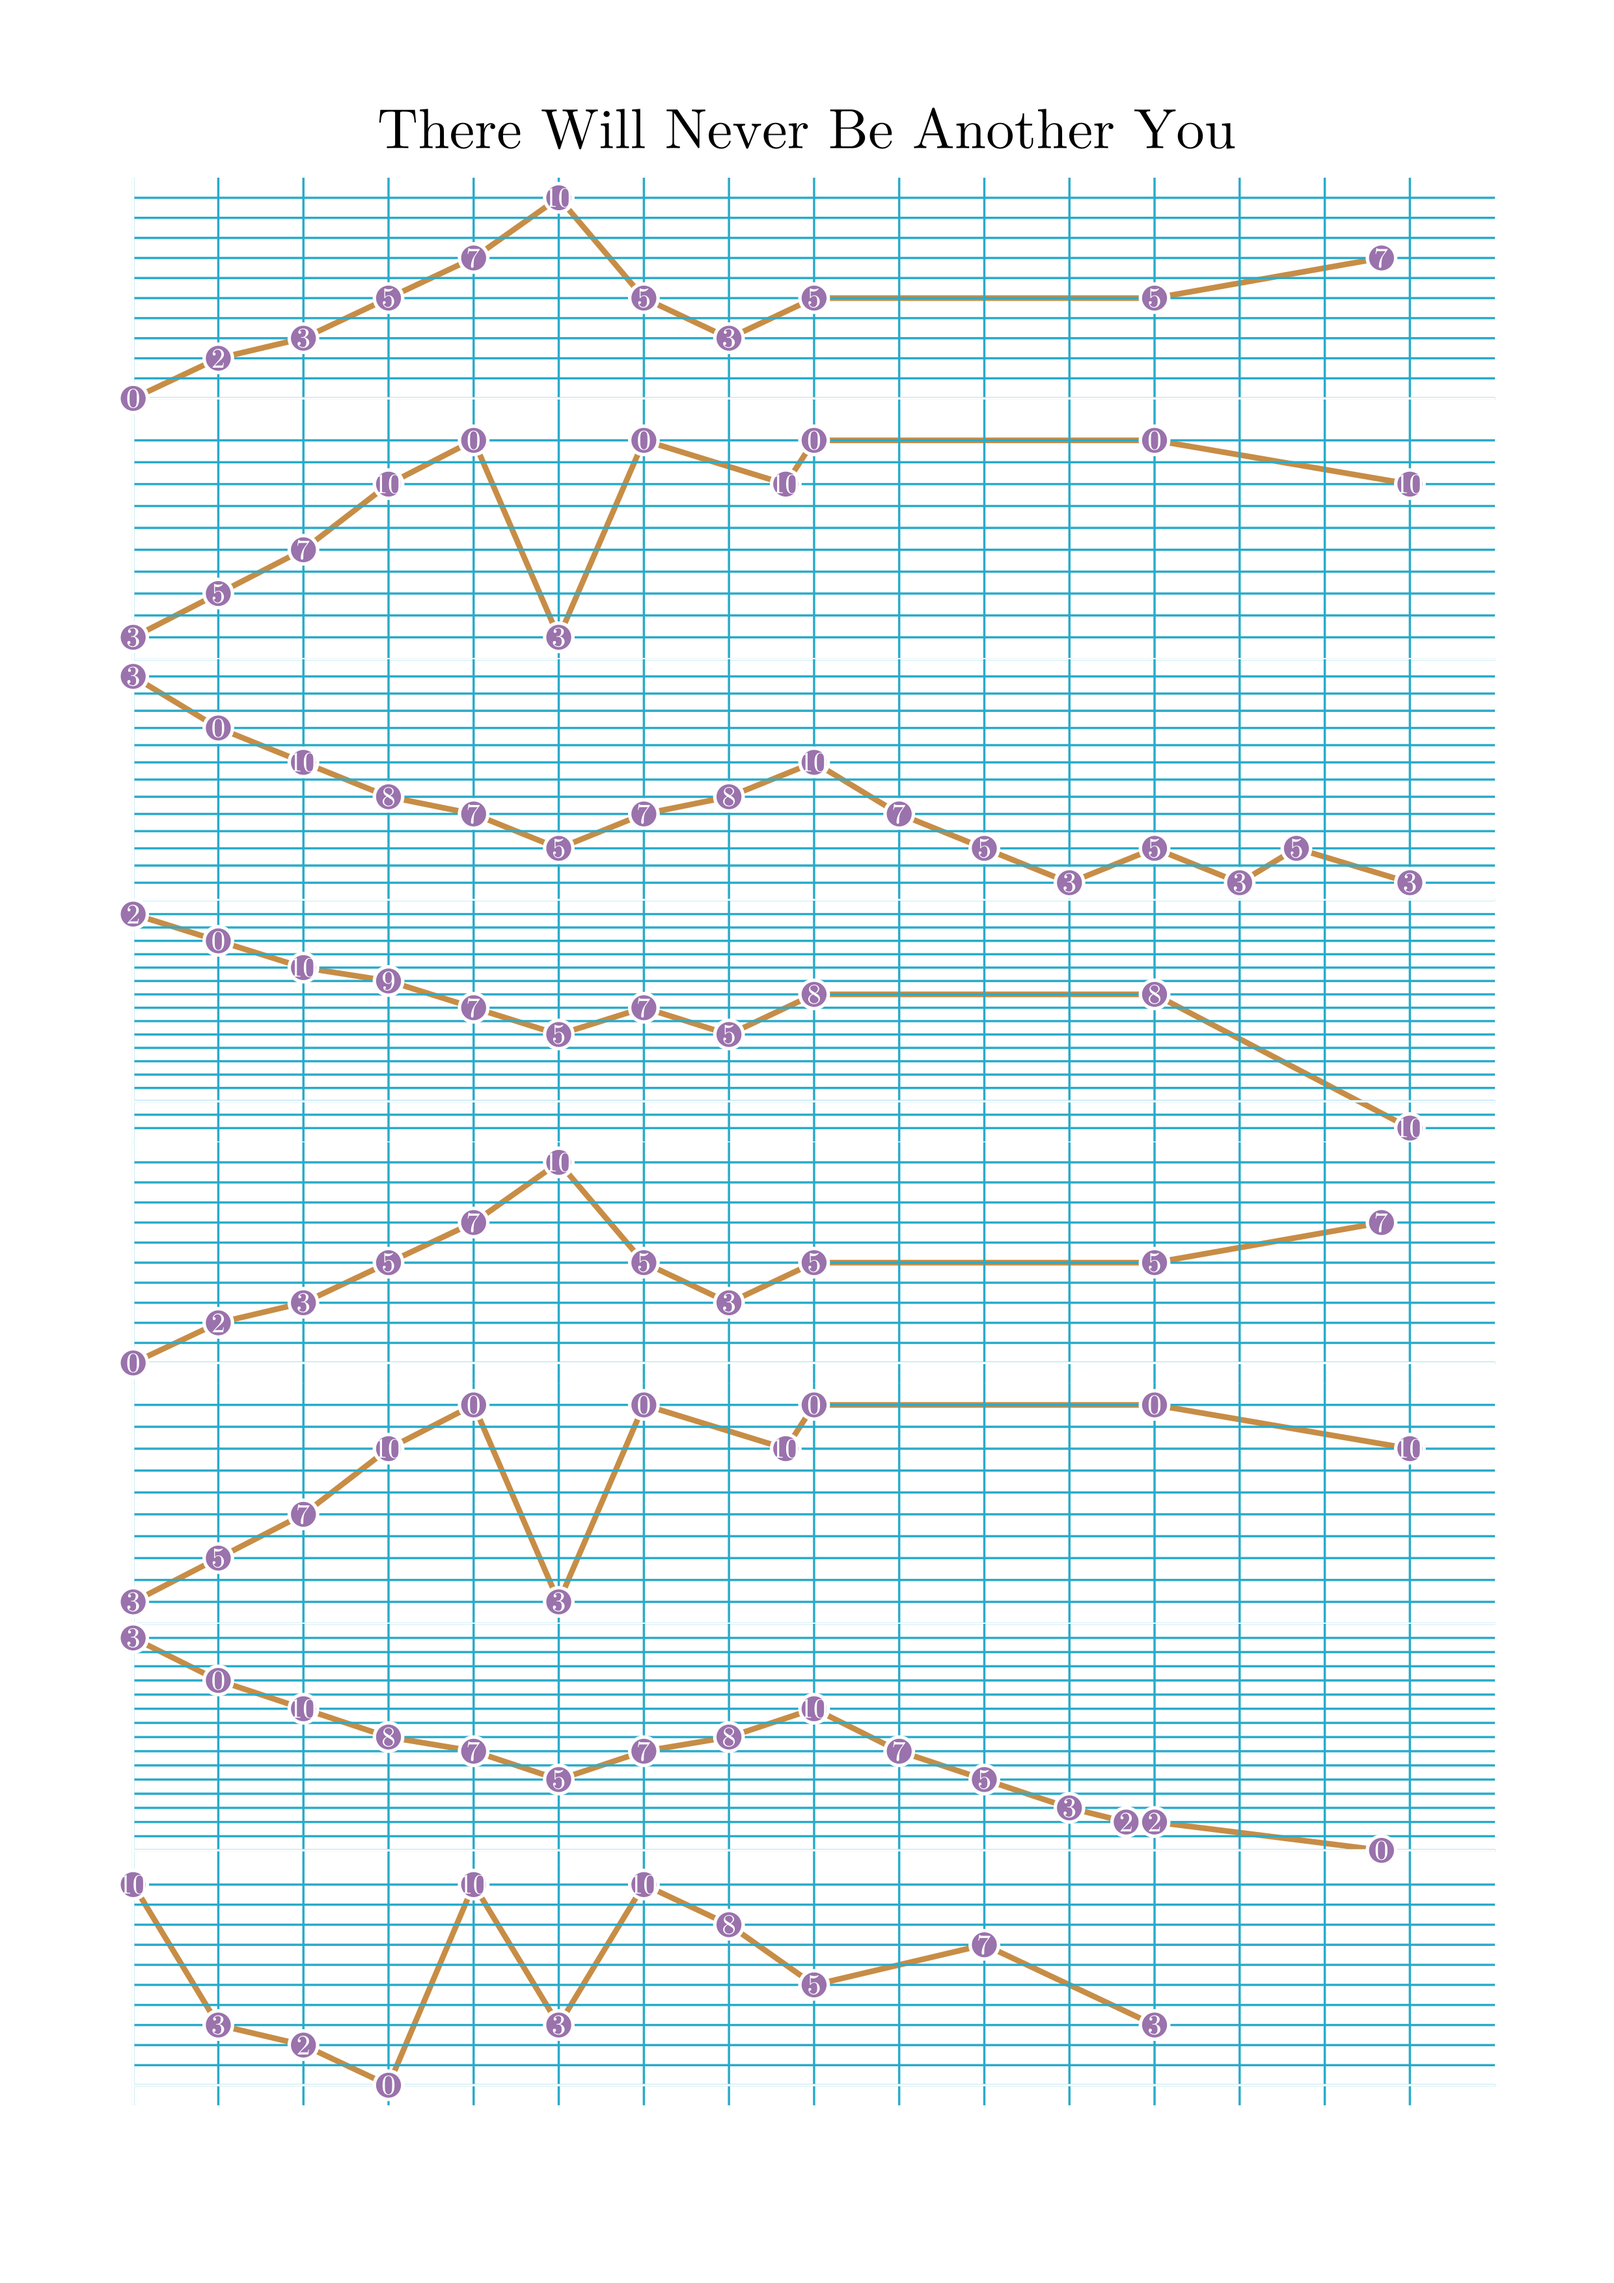
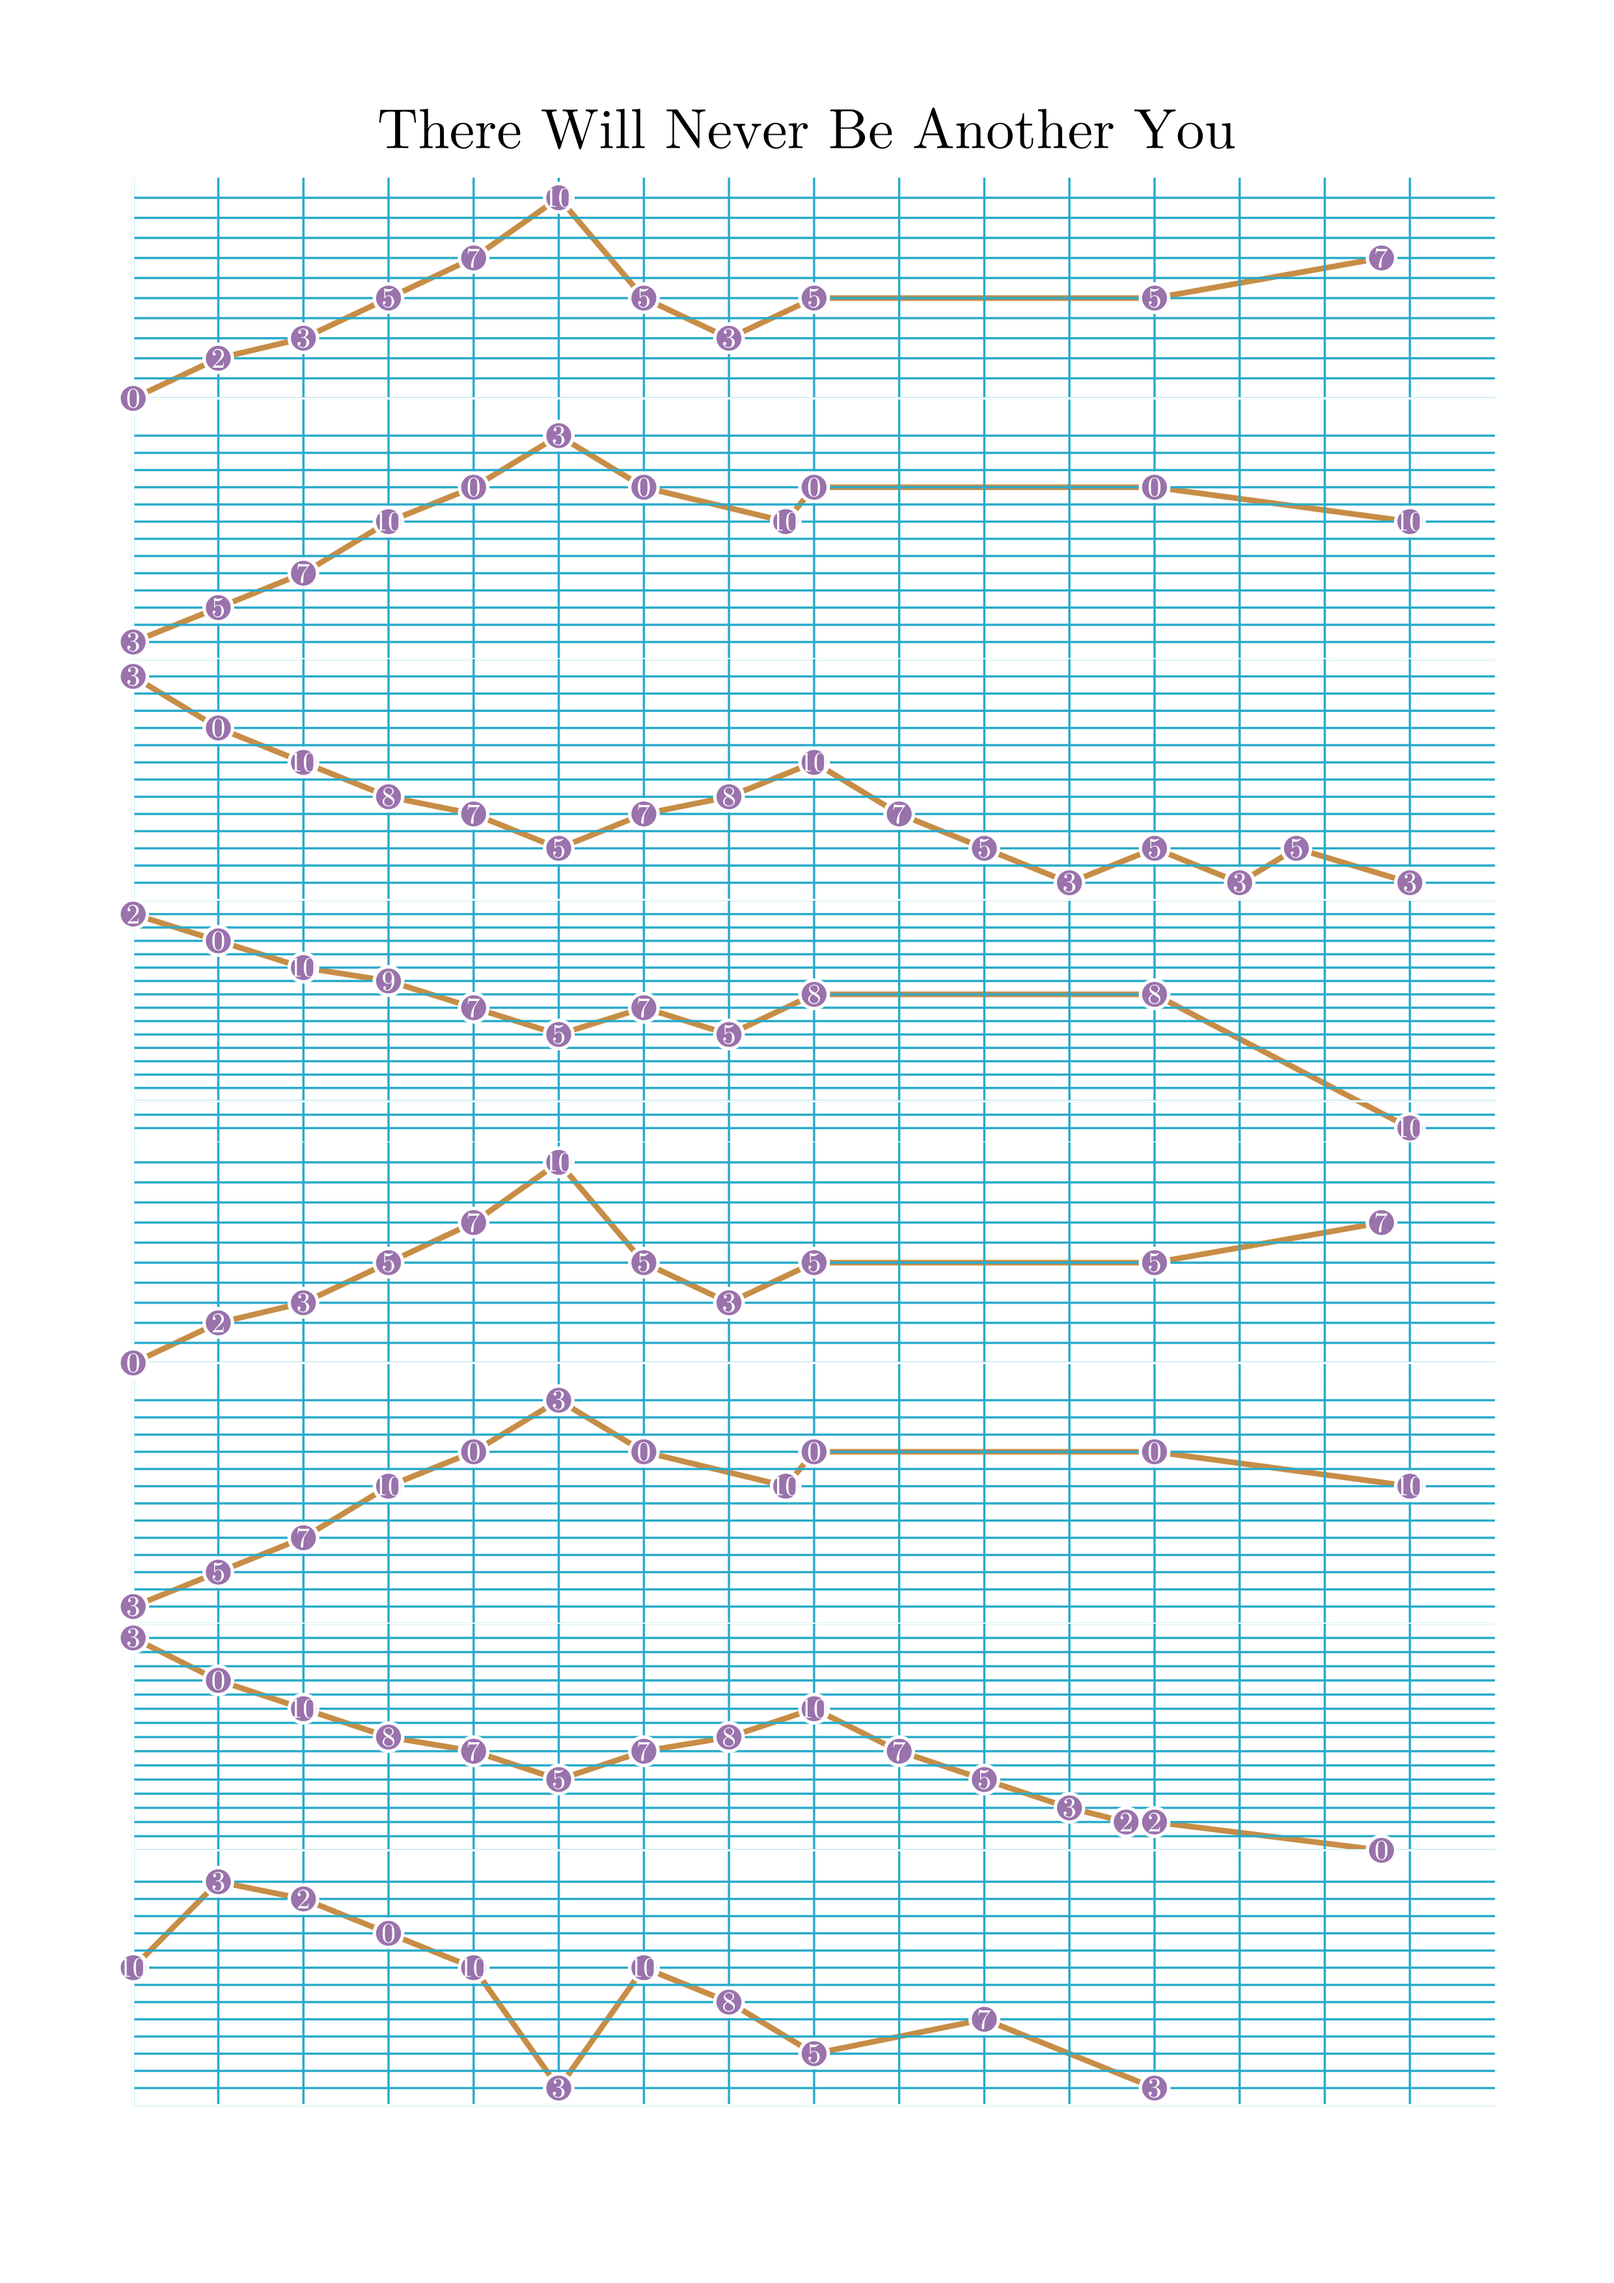
create melody sheet

Changed region(s): [[0.0621, 0.8079, 0.9315, 0.9322], [0.0621, 0.5904, 0.9315, 0.7147], [0.0621, 0.1864, 0.9315, 0.2796]]

diff --git a/graph_music_data.py b/graph_music_data.py
@@ -105,7 +105,7 @@ A = [
     [("5", [4*b])],
     [("5 R 7", [2*b, tt, t + b ])],
     [("3 5 7 10", [b, b, b, b])],
-    [("0' 3 0' 10", [b, b, b + tt, t])],
+    [("0' 3' 0' 10", [b, b, b + tt, t])],
     [("0'", [4*b])],
     [("0' 10", [3*b, b])],
 ]
@@ -125,7 +125,7 @@ there_will_never_be_another_you = [
     [("7 5 7 8", [b, b, b, b])],
     [("10 7 5 3 2", [b, b, b, tt, t])],
     [("2 R 0", [2*b, tt, t + b])],
-    [("10 3 2 0", [b, b, b, b])],
+    [("10 3' 2' 0'", [b, b, b, b])],
     [("10 3 10 8", [b, b, b, b])],
     [("5 7", [2*b, 2*b])],
     [("3", [4*b])],
